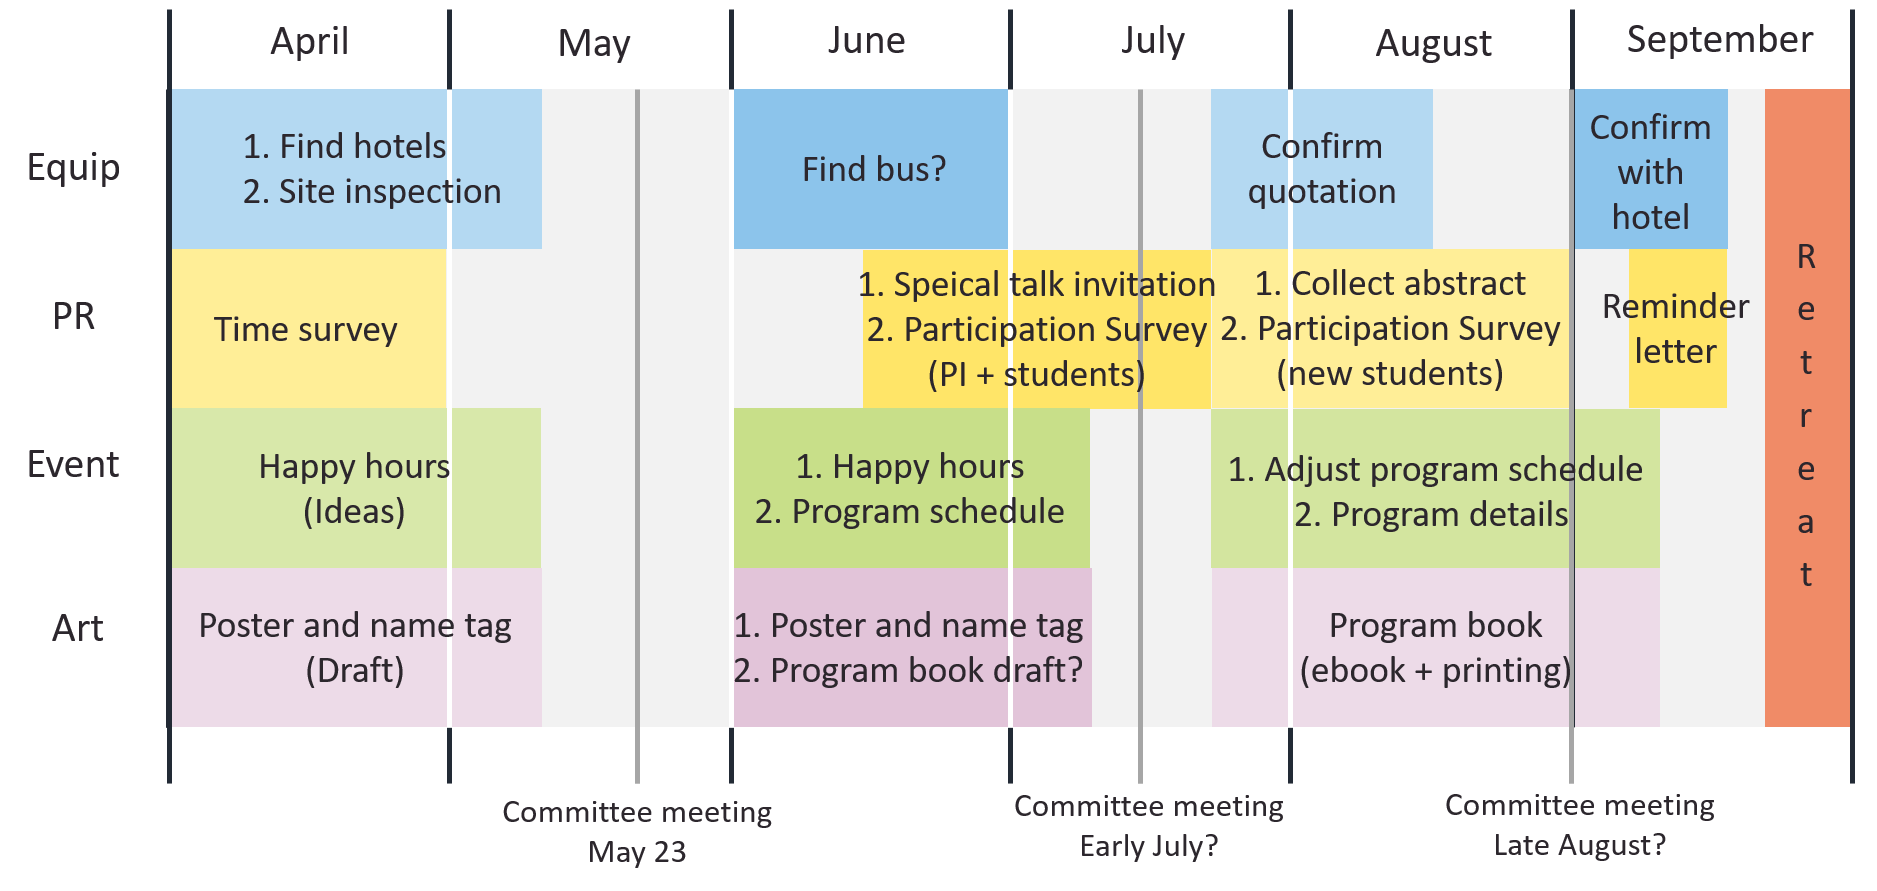
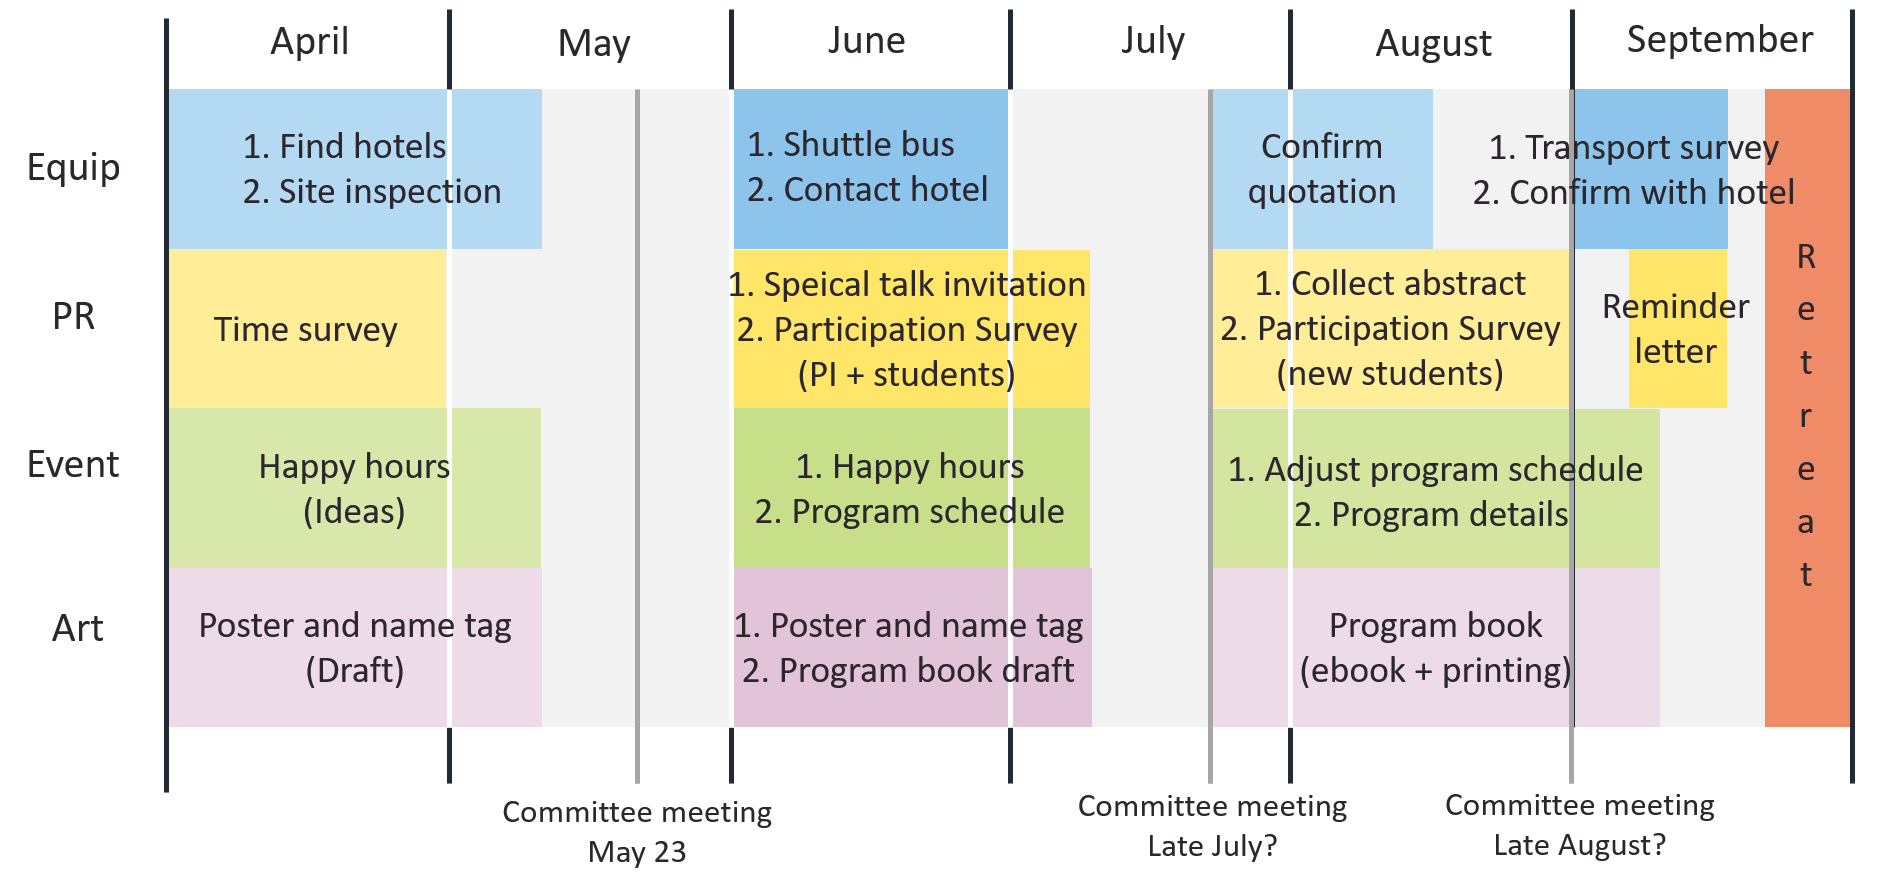
Update June schedule

diff --git a/docs/equipment.md b/docs/equipment.md
@@ -3,48 +3,23 @@ Members: 陳哲緯 (Je-Wei Chen) and Nguyen Thi Ngan Giang
 
 Google Drive: [Equipment](https://drive.google.com/drive/folders/1PtLs-_tNRNZZjyVaGNv5ONrGH0ZKdNo0){:target='_blank'}
 
+### Shuttle Bus
 
-### Site Inspection
+#### Description
+1. Ask for the pricing of different bus companies. (9/29 morning, 9/30 afternoon) 
+ 
+Example: [shuttle_bus 2023](./images/shuttle_bus.png){:target='_blank'}  
 
-Candidate hotels:
-福容、煙波、悅華、西湖、尚順
+### Poster Boards     
+
+#### Description
+1. Maybe ask IMB administration staff whether we can rent roughly **12** poster boards on 9/29-30.
 
 
-### Collect the Pricing from Hotels (before 3/27)
+### Confirm the Number of People with Yawart's Salesperson (wait until early July)
 
-Candidate list (can add more later):
-
-| Hotel | Location | Website |
-| --- | --- | --- |
-| 喜來登 | 台北中正區 | [Room](https://www.sheratongrandtaipei.com/websev?lang=zh-tw){:target='_blank'}, [Venue](https://www.sheratongrandtaipei.com/websev?lang=zh-tw&ref=pages&cat=50&id=36){:target='_blank'}|
-| 喜來登 | 八里 | [Main page](https://www.fptpe.com/){:target='_blank'} |
-| 圓山 | 台北中山區 | [Room](https://www.grand-hotel.org/TW/official/news-detail.aspx?gh=TP&id=1544){:target='_blank'}, [Venue](https://www.grand-hotel.org/TW/official/ballroom.aspx?gh=TP){:target='_blank'} |
-| 將捷酒店 | 淡水 | [Room](https://www.goldentulip-fabhotel.com.tw/room/){:target='_blank'}, [Venue](https://www.goldentulip-fabhotel.com.tw/meeting/){:target='_blank'}|
-| 福容 | 淡水 | [Room](https://www.fullon-hotels.com.tw/fw/tw/room/){:target='_blank'}, [Venue](https://www.fullon-hotels.com.tw/fw/tw/meeting/){:target='_blank'} |
-| 福容 | 福隆 | [Room](https://www.fullon-hotels.com.tw/fl/tw/room/){:target='_blank'}, [Venue](https://www.fullon-hotels.com.tw/fl/tw/meeting/){:target='_blank'} | 
-| 凱達 | 萬華 | [Room](https://www.caesarmetro.com/room/){:target='_blank'}, [Venue](https://www.caesarmetro.com/conference/){:target='_blank'} |
-| 希爾頓 | 板橋 | [Room](https://www.hilton.com.cn/zh-hk/hotel/taibei/hilton-taipei-sinban-tsatchi/rooms.html){:target='_blank'}, [Venue](https://www.hilton.com.cn/zh-hk/hotel/taibei/hilton-taipei-sinban-tsatchi/event.html){:target='_blank'} |
-| 凱撒 | 板橋 | [Room](https://banqiao.caesarpark.com.tw/room/){:target='_blank'}|
-| 威斯汀 | 大溪 | [Room](https://www.lifutashee.com.tw/room-type/){:target='_blank'}, [Venue](https://www.lifutashee.com.tw/banquet-meeting-event/){:target='_blank'} |
-| 大板根 | 三峽 | [Room](https://www.thegreatroots.com/room-introduction/){:target='_blank'}, [Venue](https://www.thegreatroots.com/conference-banquet/){:target='_blank'} |
-| 水美 | 北投 | [Room](https://www.sweetme.com.tw/){:target='_blank'}, [Venue](https://www.sweetme.com.tw/%E8%8F%81%E8%8B%B1%E6%9C%83%E8%AD%B0%E5%B0%88%E6%A1%88__trashed/%E6%9C%83%E8%AD%B0%E5%B0%88%E6%A1%88/){:target='_blank'} |
-| 六福萬怡 | 南港 | [Room](https://www.courtyardtaipei.com.tw/zh-TW/?Psn=10694){:target='_blank'}, [Venue](https://www.courtyardtaipei.com.tw/zh-TW/?Psn=10713) |
-| 喜來登 | 林口 | [Main page](https://www.myclubmarriott.com/hotel/hoteldetail/co/four-points-by-sheraton-linkou){:target='_blank'} |
-| Cozzi 和逸 | 中壢 (高鐵旁)  | [Room](https://hotelcozzi.com/%e6%a1%83%e5%9c%92%e9%a4%a8/%e6%88%bf%e5%9e%8b%e5%b0%8e%e8%a6%bd/){:target='_blank'}, [Venue](https://hotelcozzi.com/%e6%a1%83%e5%9c%92%e9%a4%a8/%e5%ae%b4%e6%9c%83%e5%8f%8a%e6%9c%83%e8%ad%b0/){:target='_blank'} |
-| 名人堂 | 龍潭 | [Room](https://hotel.fhgh.com.tw/room/){:target='_blank'}, [Venue](https://hotel.fhgh.com.tw/wedding/17/){:target='_blank'} |
-| 南方莊園 | 中壢 | [Room](http://www.southgarden.com.tw/zh_TW/rooms){:target='_blank'}, [Venue](http://www.southgarden.com.tw/zh_TW/conference){:target='_blank'} |
-| 喜來登 | 竹北 | [Room](https://www.sheraton-hsinchu.com/zh-tw/websev?cat=room&id=15){:target='_blank'}, [Venue](https://www.sheraton-hsinchu.com/zh-tw/websev?cat=page&id=22){:target='_blank'} |
-| 煙波 | 新竹 | [Room](https://hsinchu.lakeshore.com.tw/rooms/){:target='_blank'}, [Venue](https://hsinchu.lakeshore.com.tw/wedding-meeting/field-equipment/meeting/){:target='_blank'} |
-| 長榮 | 礁溪 | [Room](https://jiaosi.evergreen-hotels.com/accommodation.jsp){:target='_blank'}, [Venue](https://jiaosi.evergreen-hotels.com/venues.jsp){:target='_blank'} |
-| 老爺 | 礁溪 | [Room](https://www.hotelroyal.com.tw/zh-tw/chiaohsi/rooms){:target='_blank'}, [Venue](https://www.hotelroyal.com.tw/zh-tw/chiaohsi/Meeting/Venue){:target='_blank'} |
-
-> Notes:  
-1. Audience can clearly see the presentation contents. (at least 3 projector screens?)  
-2. The place needs to be suitable for kids.  
-3. Budget: < 350k  
-4. Ask the pricing for roughly 70-80 people, half twin room, half quad room  
-5. Also ask the pricing for Saturday + Sunday.  
-6. About dining: 預備桌?
+#### Description
+1. After finishing the participation survey (early July), contact the salesperson and see if we still have the budget to upgrade our lunch or dinner.
 <!-- * Deciding the venue
 * Reserving shuttle buses
 * Buying travel insurance? -->

diff --git a/docs/equipment_past.md b/docs/equipment_past.md
@@ -1,0 +1,42 @@
+
+### Site Inspection
+
+Candidate hotels:
+福容、煙波、悅華、西湖、尚順
+
+
+### Collect the Pricing from Hotels (before 3/27)
+
+Candidate list (can add more later):
+
+| Hotel | Location | Website |
+| --- | --- | --- |
+| 喜來登 | 台北中正區 | [Room](https://www.sheratongrandtaipei.com/websev?lang=zh-tw){:target='_blank'}, [Venue](https://www.sheratongrandtaipei.com/websev?lang=zh-tw&ref=pages&cat=50&id=36){:target='_blank'}|
+| 喜來登 | 八里 | [Main page](https://www.fptpe.com/){:target='_blank'} |
+| 圓山 | 台北中山區 | [Room](https://www.grand-hotel.org/TW/official/news-detail.aspx?gh=TP&id=1544){:target='_blank'}, [Venue](https://www.grand-hotel.org/TW/official/ballroom.aspx?gh=TP){:target='_blank'} |
+| 將捷酒店 | 淡水 | [Room](https://www.goldentulip-fabhotel.com.tw/room/){:target='_blank'}, [Venue](https://www.goldentulip-fabhotel.com.tw/meeting/){:target='_blank'}|
+| 福容 | 淡水 | [Room](https://www.fullon-hotels.com.tw/fw/tw/room/){:target='_blank'}, [Venue](https://www.fullon-hotels.com.tw/fw/tw/meeting/){:target='_blank'} |
+| 福容 | 福隆 | [Room](https://www.fullon-hotels.com.tw/fl/tw/room/){:target='_blank'}, [Venue](https://www.fullon-hotels.com.tw/fl/tw/meeting/){:target='_blank'} | 
+| 凱達 | 萬華 | [Room](https://www.caesarmetro.com/room/){:target='_blank'}, [Venue](https://www.caesarmetro.com/conference/){:target='_blank'} |
+| 希爾頓 | 板橋 | [Room](https://www.hilton.com.cn/zh-hk/hotel/taibei/hilton-taipei-sinban-tsatchi/rooms.html){:target='_blank'}, [Venue](https://www.hilton.com.cn/zh-hk/hotel/taibei/hilton-taipei-sinban-tsatchi/event.html){:target='_blank'} |
+| 凱撒 | 板橋 | [Room](https://banqiao.caesarpark.com.tw/room/){:target='_blank'}|
+| 威斯汀 | 大溪 | [Room](https://www.lifutashee.com.tw/room-type/){:target='_blank'}, [Venue](https://www.lifutashee.com.tw/banquet-meeting-event/){:target='_blank'} |
+| 大板根 | 三峽 | [Room](https://www.thegreatroots.com/room-introduction/){:target='_blank'}, [Venue](https://www.thegreatroots.com/conference-banquet/){:target='_blank'} |
+| 水美 | 北投 | [Room](https://www.sweetme.com.tw/){:target='_blank'}, [Venue](https://www.sweetme.com.tw/%E8%8F%81%E8%8B%B1%E6%9C%83%E8%AD%B0%E5%B0%88%E6%A1%88__trashed/%E6%9C%83%E8%AD%B0%E5%B0%88%E6%A1%88/){:target='_blank'} |
+| 六福萬怡 | 南港 | [Room](https://www.courtyardtaipei.com.tw/zh-TW/?Psn=10694){:target='_blank'}, [Venue](https://www.courtyardtaipei.com.tw/zh-TW/?Psn=10713) |
+| 喜來登 | 林口 | [Main page](https://www.myclubmarriott.com/hotel/hoteldetail/co/four-points-by-sheraton-linkou){:target='_blank'} |
+| Cozzi 和逸 | 中壢 (高鐵旁)  | [Room](https://hotelcozzi.com/%e6%a1%83%e5%9c%92%e9%a4%a8/%e6%88%bf%e5%9e%8b%e5%b0%8e%e8%a6%bd/){:target='_blank'}, [Venue](https://hotelcozzi.com/%e6%a1%83%e5%9c%92%e9%a4%a8/%e5%ae%b4%e6%9c%83%e5%8f%8a%e6%9c%83%e8%ad%b0/){:target='_blank'} |
+| 名人堂 | 龍潭 | [Room](https://hotel.fhgh.com.tw/room/){:target='_blank'}, [Venue](https://hotel.fhgh.com.tw/wedding/17/){:target='_blank'} |
+| 南方莊園 | 中壢 | [Room](http://www.southgarden.com.tw/zh_TW/rooms){:target='_blank'}, [Venue](http://www.southgarden.com.tw/zh_TW/conference){:target='_blank'} |
+| 喜來登 | 竹北 | [Room](https://www.sheraton-hsinchu.com/zh-tw/websev?cat=room&id=15){:target='_blank'}, [Venue](https://www.sheraton-hsinchu.com/zh-tw/websev?cat=page&id=22){:target='_blank'} |
+| 煙波 | 新竹 | [Room](https://hsinchu.lakeshore.com.tw/rooms/){:target='_blank'}, [Venue](https://hsinchu.lakeshore.com.tw/wedding-meeting/field-equipment/meeting/){:target='_blank'} |
+| 長榮 | 礁溪 | [Room](https://jiaosi.evergreen-hotels.com/accommodation.jsp){:target='_blank'}, [Venue](https://jiaosi.evergreen-hotels.com/venues.jsp){:target='_blank'} |
+| 老爺 | 礁溪 | [Room](https://www.hotelroyal.com.tw/zh-tw/chiaohsi/rooms){:target='_blank'}, [Venue](https://www.hotelroyal.com.tw/zh-tw/chiaohsi/Meeting/Venue){:target='_blank'} |
+
+> Notes:  
+1. Audience can clearly see the presentation contents. (at least 3 projector screens?)  
+2. The place needs to be suitable for kids.  
+3. Budget: < 350k  
+4. Ask the pricing for roughly 70-80 people, half twin room, half quad room  
+5. Also ask the pricing for Saturday + Sunday.  
+6. About dining: 預備桌?

diff --git a/docs/public_relations.md b/docs/public_relations.md
@@ -3,17 +3,35 @@ Members: 胡昱庭 (Yu-Ting  Hu) and 謝雨彤 (Yu-Tung Hsieh)
 
 Google Drive: [Public Relations](https://drive.google.com/drive/folders/1Ck5u7ps8WYyGMOASCpvzt14xAPH7pndD){:target='_blank'}
 
-### Google Form and Email (before 4/8)
+### Special Talk Invitation (before 6/20)
 
 #### Description
 
-1. Google form for surveying suitable dates (maybe survey both faculty and students) ([example_2023](https://docs.google.com/forms/d/13xNKIX3fb0mFbysdHmSrDtq-HpiIt3c46iXFReHKVIo/edit){:target="_blank"})
-    * Current potential dates: **9/22-9/23**, **9/29-9/30**, **10/6-10/7**
+1. Invite new faculty members (王維樂、林暐翔、邱澗庚、林耿慧、鄭佳宜) and Dean of College of Life Science (江伯倫) to give talks. 
+2. Might be better to send emails to each person individually.
+3. The talk will be roughly 25 minutes long.
 
-2. Email content
+Last year:
+![](./images/invitation_example.png)
 
-    - Example:
-    ![example](./images/email_example.png)
+
+### Participation Survey (Google Form) (before 6/20)
+
+#### Description
+
+1. Google form for surveying participation (Questions + Introduction to GSB Retreat)
+2. Two versions (Faculty and Student) 
+
+> Notes:  
+1. Add `Seafood` option to dietary restrictions.  
+2. Faculty: Add an additional page to survey how many family members the teacher will bring, what kind of room (Twin room, triple room, or Quad room) they need, and whether they want a room for themselves and not share with others.  
+3. Student: Add abstract submission deadline (Late Augest? TBD)
+
+Example:   
+[Faculty_2023](https://docs.google.com/forms/d/1Gt7w2GYe9vHuPnsnKXDDWpVSlJxxsypvwLJ2exzN0wA/edit){:target="_blank"}  
+[Student_2023](https://docs.google.com/forms/d/1FawO30bPDruC5qD4COu2C1-BMTyBExGXHI0E3nMGqgk/edit){:target="_blank"}  
+[New_student_2023](https://docs.google.com/forms/d/1fpcW_gdKX5AeGhhOmKWcie5HS_RZg3-4I5lgiu4HcY0/edit){:target="_blank"}  
+
 
 <!-- * Survey
 * Announcement

diff --git a/docs/artistic_design.md b/docs/artistic_design.md
@@ -3,28 +3,36 @@ Members: 許舒瑜 (Shu-Yu Hsu) and 孫國瑞 (Kuo-Jui Sun)
 
 Google Drive: [Artistic Design](https://drive.google.com/drive/folders/1WMZKaTQMelITlmTpOj-JPy66o2y8RZ3z){:target='_blank'}
 
-### Retreat Poster First Draft (before 5/8)
+
+### Retreat Poster (before 7/15)
 
 #### Description
 
-1. Design Style: lively and vibrant?  
+1. Design Style: Tree (currently), but can also try to add something relevant to the topics of the oral presentations (after participation survey) 
+2. Size: (Depends on the size of the poster boards, not sure now)
 
     * Example: [poster_2023](./images/poster.jpg){:target='_blank'}  
 
-### Name Tag Draft (before 5/8) 
+### Name Tag (before 7/15) 
 
 #### Description
 
 1. Two patterns: (1) faculty, (2) student  
-2. Two sides: front for name, and back for retreat schedule
+2. Two sides: front for name, and back for retreat schedule (not yet confirmed)
+3. Add the table numbers to the front side
 
+Examples:  
+[name_tag_2023](./images/name_tag.jpg){:target='_blank'}  
+[name_tag_SMBE_front](./images/name_tag_1.JPG){:target='_blank'}  
+[name_tags_SMBE_back](./images/name_tag_2.JPG){:target='_blank'}
 
-    - Examples:  
-    [name_tag_2023](./images/name_tag.jpg){:target='_blank'}  
-    [name_tag_SMBE_front](./images/name_tag_1.JPG){:target='_blank'}  
-    [name_tags_SMBE_back](./images/name_tag_2.JPG){:target='_blank'}
+### Program book Draft (You can do this part early if you want to)
 
+#### Description
+1. TODO
 
+Example:
+[Retreat_ebook_2023](https://drive.google.com/file/d/14tDNvh9zIsJPqPded7p2dIYW6cOkld-H/view){:target='_blank'}
 <!-- 
 * Brochure
 * Award competition

diff --git a/docs/event_planning.md b/docs/event_planning.md
@@ -4,26 +4,16 @@ Members: 張荷清 (Ho-Ching Chang) and Nguyen Hoang Phuong Uyen
 Google Drive: [Event Planning](https://drive.google.com/drive/folders/1qWYRhxHF_cTOeFAWCs1HA3WNLepQm_am){:target='_blank'}
 
 
-### Ideas for Happy Hours or Workshop (before 5/8)
+### Ideas for Happy Hours or Workshop (before 6/12)
 
 #### Description
 
-Think about possible activities that all attendees can participate in (about 2 hours). We may discuss
-the ideas after the seminar class.
+1. Think about possible activities that all attendees can participate in (**about 1 hour**). We may discuss in the line group.
+2. It would be great if the activities facilitate networking between students (or teachers).
 
-> Notes:  
-1. Saturday: poster section and lab promotion in Taipei, Sunday + Monday: retreat?  
-2. Five new PIs + Prof. Bor-Luen Chiang (Dean of College of Life Science) (6 talks in total)
 
-<!-- ### Event Program (before 5/12)
+### Plan the Happy Hours or Workshop (6/12 - 7/15)
 
 #### Description
- -->
 
-
-
-<!-- * Program planning
-* Routes
-* Poster ~ 13 people
-* Presentation ~20 people
-* -->
+1. Make your ideas concrete and plausible.

diff --git a/docs/meeting_minutes.md b/docs/meeting_minutes.md
@@ -1,3 +1,20 @@
+### Committee meeting - 2024/05/23
+
+#### Time: 10:00-11:00
+
+#### Summary
+1. Taoyuan Yawart Resort (9/29-30)
+2. Add free hours (1.5-2 hours)
+3. Probably need to adjust the length of the talks and presentations (Currently: 23+5, 15+3)
+
+
+#### Action Item (TODO)
+1. Announcement of this year's location and dates
+2. Participation survey
+3. Program schedule planning
+4. Re-estimate the budget we need after the participation survey
+
+
 ### Regular meeting - 2024/03/28
 
 #### Time: 15:30-15:45

diff --git a/docs/public_relations_past.md b/docs/public_relations_past.md
@@ -1,0 +1,11 @@
+### Google Form and Email (before 4/8)
+
+#### Description
+
+1. Google form for surveying suitable dates (maybe survey both faculty and students) ([example_2023](https://docs.google.com/forms/d/13xNKIX3fb0mFbysdHmSrDtq-HpiIt3c46iXFReHKVIo/edit){:target="_blank"})
+    * Current potential dates: **9/22-9/23**, **9/29-9/30**, **10/6-10/7**
+
+2. Email content
+
+    - Example:
+    ![example](./images/email_example.png)

diff --git a/docs/coordinator.md b/docs/coordinator.md
@@ -1,7 +1,7 @@
 
 Member: 葉政翔 (Zheng-Xiang Ye)
 
-~~* Faculty and student list (late March)~~  
-* Send email (4/9)  
-* Ask site inspection time  
-~~* Arrage the first pre-event meeting (early April)~~  
+* Participation survey at late June
+* Shuttle bus and poster boards
+* Program schedule
+* Ask the time of the next committee meeting (6/11-14)
